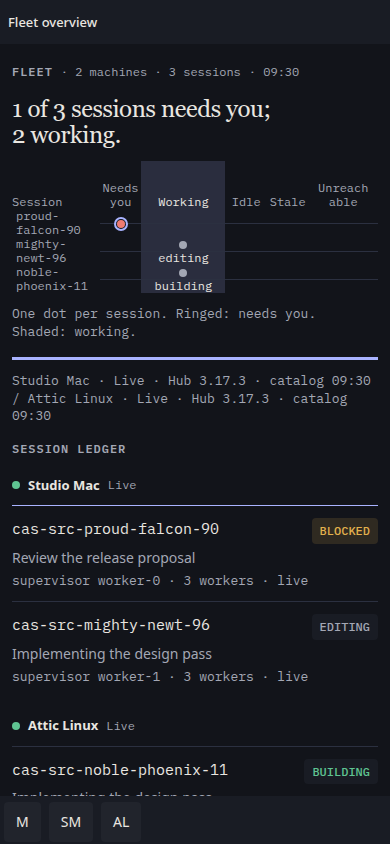
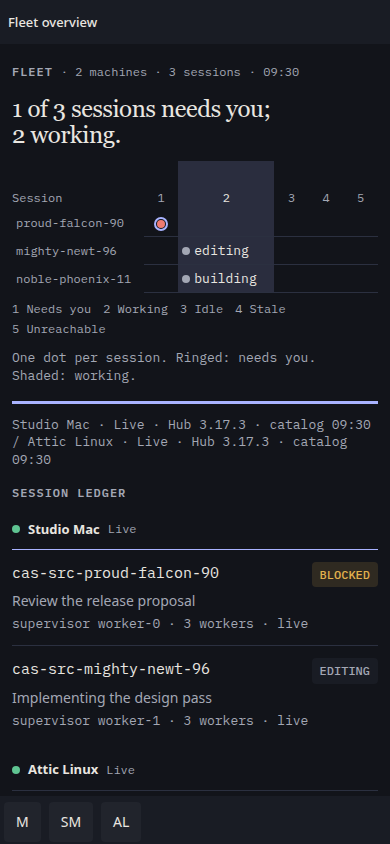
fix(hub-web): align fleet rows and keep phone labels intact (cas-0a8e)

diff --git a/hub-web/src/styles.css b/hub-web/src/styles.css
@@ -437,22 +437,36 @@ pre { font-family: var(--font-mono); }
 .fleet-catalog-time { color: var(--text-mid); font: var(--fs-xs)/1.33 var(--font-mono); }
 .fleet-board-summary { margin: 0; color: var(--text-mid); font: var(--fs-xs)/1.33 var(--font-mono); }
 .fleet-verdict { flex-basis: 100%; margin: var(--space-2) 0 0; max-width: 22ch; font: var(--weight-regular) var(--fs-verdict)/1.1 var(--font-display); letter-spacing: -.015em; text-wrap: pretty; }
-.fleet-figure { min-width: 0; margin: 0; }
+.fleet-figure { min-width: 0; margin: 0; container: fleet-figure / inline-size; }
 .fleet-plot-scroll { max-height: calc(8 * var(--button-compact-height) + var(--space-12)); overflow: auto; }
 .fleet-plot { width: 100%; border-collapse: collapse; table-layout: fixed; font: var(--fs-xs)/1.16 var(--font-mono); }
-.fleet-plot th { padding: var(--space-1); font-weight: var(--weight-regular); overflow-wrap: anywhere; text-align: center; }
-.fleet-plot thead th { padding: 0; height: var(--space-12); color: var(--text-mid); vertical-align: bottom; }
+.fleet-plot th { padding: var(--space-1); font-weight: var(--weight-regular); white-space: nowrap; text-align: center; }
+.fleet-plot thead th { padding: var(--space-1) 0; height: var(--space-12); color: var(--text-mid); vertical-align: bottom; }
 .fleet-plot th:first-child { width: 25%; text-align: left; }
-.fleet-plot th:nth-child(3) { width: 21%; }
+.fleet-plot th:nth-child(3) { width: calc(10ch + var(--space-6)); }
 .fleet-plot th:last-child { width: 19%; }
-.fleet-plot tbody th { padding: 0 var(--space-1); color: var(--text-mid); }
-.fleet-track-cell { height: var(--button-compact-height); padding: 0; position: relative; text-align: center; vertical-align: middle; }
-.fleet-track-cell::before { content: ""; position: absolute; left: 0; right: 0; top: 50%; height: var(--line-width); background: var(--line-subtle); }
+.fleet-plot tbody th, .fleet-track-cell { height: var(--button-compact-height); padding: 0; vertical-align: middle; }
+.fleet-plot tbody th { color: var(--text-mid); }
+.fleet-plot-name { display: block; padding: 0 var(--space-1); line-height: var(--button-compact-height); white-space: nowrap; overflow: hidden; text-overflow: ellipsis; }
+.fleet-track-cell { position: relative; text-align: center; }
+.fleet-track-cell::before { content: ""; position: absolute; left: 0; right: 0; bottom: 0; height: var(--line-width); background: var(--line-subtle); }
+.fleet-plot-mark { position: relative; display: inline-flex; align-items: center; gap: var(--space-1); vertical-align: middle; white-space: nowrap; }
+.track-working .fleet-plot-mark { display: flex; padding: 0 var(--space-1); }
 .fleet-plot th:nth-child(3), .track-working { background: var(--bg-active); color: var(--text-hi); }
 .fleet-dot { position: relative; display: inline-block; width: var(--space-2); height: var(--space-2); background: var(--text-mid); border-radius: var(--radius-pill); vertical-align: middle; }
 .needs-you .fleet-dot { background: var(--state-crit); outline: var(--rule-verdict) solid var(--color-verdict); outline-offset: var(--line-width); }
 .unreachable .fleet-dot { background: var(--state-warn); }
-.fleet-dot-phase { position: relative; display: block; color: var(--text-hi); font-size: var(--fs-xs); overflow-wrap: anywhere; }
+.fleet-dot-phase { color: var(--text-hi); font: var(--fs-meta)/1.38 var(--font-mono); white-space: nowrap; }
+.fleet-track-key, .fleet-track-legend { display: none; }
+/* Narrow figures use a numbered key so state words never split across rows. */
+@container fleet-figure (max-width: 34rem) {
+  .fleet-plot th:first-child { width: 36%; }
+  .fleet-plot th:last-child { width: auto; }
+  .fleet-plot thead th:not(:first-child) .fleet-track-label { display: none; }
+  .fleet-track-key { display: inline; }
+  .fleet-track-legend { display: flex; flex-wrap: wrap; gap: var(--space-1) var(--space-3); margin-top: var(--space-2); color: var(--text-mid); font: var(--fs-xs)/1.33 var(--font-mono); }
+  .fleet-track-legend > span { white-space: nowrap; }
+}
 .fleet-figure-caption { margin-top: var(--space-3); color: var(--text-mid); font: var(--fs-meta)/1.38 var(--font-mono); }
 .fleet-provenance { margin: 0; padding-top: var(--space-3); border-top: var(--rule-hero) solid var(--color-verdict); color: var(--text-mid); font: var(--fs-meta)/1.38 var(--font-mono); overflow-wrap: anywhere; }
 .fleet-provenance:empty { display: none; }
@@ -2192,8 +2206,6 @@ dialog form > *,
   .fleet-board { padding: var(--space-3) var(--space-1) var(--space-6); gap: var(--space-4); }
   .fleet-hero { grid-template-columns: minmax(0, 1fr); gap: var(--space-3); }
   .fleet-verdict { max-width: none; }
-  .fleet-plot th:first-child { width: 24%; }
-  .fleet-plot th:nth-child(3) { width: 23%; }
   /* == End Unit 3: phone fleet == */
 
   .talk-supervisor {

diff --git a/hub-web/src/fleet-board.test.ts b/hub-web/src/fleet-board.test.ts
@@ -2,6 +2,11 @@
 import { beforeEach, describe, expect, it, vi } from "vitest";
 import { FleetBoardRenderer, fleetBoardSignature, type FleetBoardModel } from "./fleet-board";
 import type { SessionPickerEntry } from "./session-selection";
+import { readFileSync } from "node:fs";
+import { fileURLToPath } from "node:url";
+import { dirname, join } from "node:path";
+
+const css = readFileSync(join(dirname(fileURLToPath(import.meta.url)), "styles.css"), "utf8");
 
 function entry(overrides: Partial<SessionPickerEntry> = {}): SessionPickerEntry {
   return {
@@ -130,6 +135,38 @@ describe("fleet board region lifecycle", () => {
 
 describe("fleet verdict and state track", () => {
   beforeEach(() => { document.body.innerHTML = ""; });
+
+  it.each([3, 8])("keeps %i session names and inline marks in the same fixed table rows", (count) => {
+    const board = freshBoard();
+    new FleetBoardRenderer().render(board, model({ sessions: Array.from({ length: count }, (_, i) =>
+      entry({ session: `cas-src-extraordinarily-long-falcon-${i}`, phase: "reviewing" })) }), { open: vi.fn() });
+    const rows = [...board.querySelectorAll<HTMLTableRowElement>(".fleet-plot-row")];
+    expect(rows).toHaveLength(count);
+    for (const [index, row] of rows.entries()) {
+      expect(row.cells).toHaveLength(6);
+      expect(row.cells[0].title).toBe(row.dataset.fleetSession);
+      expect(row.querySelector(".fleet-plot-name")?.textContent).toBe(`long-falcon-${index}`);
+      expect(row.querySelector(".fleet-plot-mark > .fleet-dot + .fleet-dot-phase")?.textContent).toBe("reviewing");
+    }
+    // jsdom has no layout engine: pin the shared geometry here; the browser
+    // receipt measures actual centers, all eight row heights and text bounds.
+    expect(css).toMatch(/\.fleet-plot tbody th, \.fleet-track-cell\s*\{[^}]*height: var\(--button-compact-height\);[^}]*padding: 0;[^}]*vertical-align: middle;/);
+    expect(css).toMatch(/\.fleet-plot-name\s*\{[^}]*line-height: var\(--button-compact-height\);[^}]*white-space: nowrap;[^}]*overflow: hidden;[^}]*text-overflow: ellipsis;/);
+    expect(css).toMatch(/\.fleet-plot-mark\s*\{[^}]*display: inline-flex;[^}]*align-items: center;/);
+    expect(css).toMatch(/\.fleet-track-cell::before\s*\{[^}]*bottom: 0;/);
+  });
+
+  it("keeps full state names accessible and supplies a nonbreaking narrow-figure legend", () => {
+    const board = freshBoard();
+    new FleetBoardRenderer().render(board, model(), { open: vi.fn() });
+    expect(board.querySelector("wbr")).toBeNull();
+    const labels = [...board.querySelectorAll("thead th")].slice(1).map(node => node.getAttribute("aria-label"));
+    expect(labels).toEqual(["Needs you", "Working", "Idle", "Stale", "Unreachable"]);
+    expect([...board.querySelectorAll(".fleet-track-key")].map(node => node.textContent)).toEqual(["1", "2", "3", "4", "5"]);
+    expect([...board.querySelectorAll(".fleet-track-legend > span")].map(node => node.textContent)).toEqual(labels.map((label, i) => `${i + 1} ${label}`));
+    expect(css).toMatch(/\.fleet-plot th\s*\{[^}]*white-space: nowrap;/);
+    expect(css).toMatch(/\.fleet-track-legend > span\s*\{[^}]*white-space: nowrap;/);
+  });
 
   it("puts the critical session first on Needs you with a matching verdict and ledger", () => {
     const board = freshBoard();

diff --git a/hub-web/src/fleet-board.ts b/hub-web/src/fleet-board.ts
@@ -180,11 +180,16 @@ function fleetFigure(model: FleetBoardModel): HTMLElement {
   const table = document.createElement("table");
   table.className = "fleet-plot";
   const head = table.createTHead().insertRow();
-  for (const label of ["Session", ...TRACK.map((state) => STATE_LABEL[state])]) {
+  for (const [index, label] of ["Session", ...TRACK.map((state) => STATE_LABEL[state])].entries()) {
     const cell = document.createElement("th");
     cell.scope = "col";
-    if (label === "Unreachable") cell.append("Unreach", document.createElement("wbr"), "able");
-    else cell.textContent = label;
+    cell.setAttribute("aria-label", label);
+    cell.append(textNode("span", "fleet-track-label", label));
+    if (index > 0) {
+      const key = textNode("span", "fleet-track-key", String(index));
+      key.setAttribute("aria-hidden", "true");
+      cell.append(key);
+    }
     head.append(cell);
   }
   const body = table.createTBody();
@@ -198,7 +203,7 @@ function fleetFigure(model: FleetBoardModel): HTMLElement {
     name.scope = "row";
     name.title = entry.session;
     name.setAttribute("aria-label", `${entry.session} on ${entry.machineLabel}`);
-    name.textContent = entry.session.split("-").slice(-3).join("-");
+    name.append(textNode("span", "fleet-plot-name", entry.session.split("-").slice(-3).join("-")));
     row.append(name);
     for (const position of TRACK) {
       const cell = row.insertCell();
@@ -207,8 +212,10 @@ function fleetFigure(model: FleetBoardModel): HTMLElement {
       cell.setAttribute("aria-label", `${STATE_LABEL[state]}${state === "working" ? `: ${entry.phase}` : ""}`);
       const dot = textNode("span", "fleet-dot", "");
       dot.setAttribute("aria-hidden", "true");
-      cell.append(dot);
-      if (state === "working") cell.append(textNode("span", "fleet-dot-phase", entry.phase ?? ""));
+      const mark = textNode("span", "fleet-plot-mark", "");
+      mark.append(dot);
+      if (state === "working") mark.append(textNode("span", "fleet-dot-phase", entry.phase ?? ""));
+      cell.append(mark);
       cell.append(textNode("span", "sr-only", STATE_LABEL[state]));
     }
   }
@@ -218,7 +225,10 @@ function fleetFigure(model: FleetBoardModel): HTMLElement {
   scroll.setAttribute("role", "region");
   scroll.setAttribute("aria-label", "Fleet state plot; scroll for more sessions");
   scroll.append(table);
-  figure.append(scroll, textNode("figcaption", "fleet-figure-caption", "One dot per session. Ringed: needs you. Shaded: working."));
+  const legend = textNode("div", "fleet-track-legend", "");
+  legend.setAttribute("aria-hidden", "true");
+  TRACK.forEach((state, index) => legend.append(textNode("span", "", `${index + 1} ${STATE_LABEL[state]}`)));
+  figure.append(scroll, legend, textNode("figcaption", "fleet-figure-caption", "One dot per session. Ringed: needs you. Shaded: working."));
   return figure;
 }
 

diff --git a/docs/design/hub-web/captures/after/unit-3.md b/docs/design/hub-web/captures/after/unit-3.md
@@ -3,6 +3,9 @@
 The fleet is a state-track dot plot beside a serif verdict, followed by a ruled session ledger.
 The critical session leads the figure and carries the verdict ring; working sessions form a column
 inside the shaded band. At 390px the verdict stacks above the plot; eight 28px session rows fit.
+Phase words sit inline beside fixed-position dots, with hairlines at row boundaries. Narrow
+figures use numbered columns and an unbroken full-word legend. Names stay on one line with
+ellipsis and a full-name title/accessible label; normal codenames fit in the wider phone column.
 
 | Surface | Light 1280 / 390 | Dark 1280 / 390 |
 | --- | --- | --- |
@@ -22,7 +25,7 @@ Strict command, repeated for each scheme and viewport:
 ```sh
 node scripts/visual-qa.mjs --strict --scheme light --viewport 390x844 \
   --allowlist /home/pippenz/.cas/artifacts/cas-0a8e/allowlist.json \
-  --artifact-dir /home/pippenz/.cas/artifacts/cas-0a8e/qa-light-390x844 \
+  --artifact-dir /home/pippenz/.cas/artifacts/cas-0a8e/correction-qa-light-390x844 \
   http://127.0.0.1:4186/commander/ \
   http://127.0.0.1:4186/commander/fleet-proof.html \
   'http://127.0.0.1:4186/commander/fleet-proof.html?count=8'
@@ -33,11 +36,11 @@ All four commands exited 0. The only exception is the approved `javascript-disab
 class: Commander needs JavaScript for pairing/live state/terminals, and its noscript line says so.
 There are no contrast, clipping, overlap, viewport or print exceptions.
 
-After rebasing onto Unit 6 at epic a39919fc, `npm run visual-qa` produced 36 captures.
-Fleet-populated and fleet-empty have zero findings; print-loss is zero on all nine fixtures.
-The complete matrix exits 1 for 16 findings in Unit 4's unmerged surfaces: pane-title contrast
-(4), attention-repeat contrast (2), invisible dismiss (4), attention detail overflow (2), clipping
-(2), and truncation (2). These are recorded, not allowlisted. Unit 7 owns the integrated receipt.
+After rebasing onto epic 8dc1b283 (including Units 2, 4 and 6), `npm run visual-qa --
+--artifact-dir /home/pippenz/.cas/artifacts/cas-0a8e/correction-fixture-final` exits 0:
+`PASS 9 fixtures x 2 schemes x 2 viewports`. The report contains 36 captures, zero findings,
+and eight existing plan allowances (four JavaScript dependency, two collapsed-pane overflow,
+two terminal clipping). No new allowlist entry was added. Unit 7 owns the assembled critique.
 
 ## Interaction and implementation evidence
 
@@ -46,6 +49,14 @@ storage persistence after reload, palette keyboard reopen and focus return, draw
 closed→open→closed with matching inert/aria-hidden, keyboard opening a ledger session,
 eight plot rows visible above the fold, no horizontal overflow, and print expansion.
 The drawer check exercises real DOM state; the unpaired shell hides its navigation.
+
+The corrective round adds `correction-geometry.mjs`: 3/8 sessions × light/dark ×1280/390,
+with every table cell and name measured at 28px; name and dot centers aligned; all working dots
+sharing one x coordinate; phase text inside the working band and clear of every hairline;
+full track words on one line; all eight rows, legend and caption visible without scrolling.
+The script refreshes all 12 PNGs above. `correction-geometry.json` retains the measured boxes.
+The empty-state PNGs were recaptured and remain byte-identical. Fresh `npm run typecheck` and
+`npm test` both exit 0 (31 files, 439 tests, including 14 fleet tests and 61 invariants).
 
 FleetBoardRenderer owns derived fleet state and its region key. main.ts supplies existing catalog
 and attention data; shellSignature/renderDecision and terminal rendering are unchanged.
@@ -62,11 +73,15 @@ Ghostty's existing WASM/font assets remain outside this unit. LCP/INP field data
 | Distinctiveness | 4 | Serif verdict, warm paper/graphite, ringed outlier and working band replace equal cards. |
 | Fit | 4 | One dot outside the working band identifies the session that needs the operator. |
 | Hierarchy | 4 | Verdict and plot lead, then a 3px rule, provenance and the quieter ledger; eight rows fit on phone. |
-| Craft | 4 | Four strict owned-screen PASS receipts; zero clipping/overlap/overflow. Long track labels wrap on phone. |
+| Craft | 4 | Four strict owned-screen PASS receipts and the integrated strict PASS; browser measurements prove 28px alignment, inline phase clearance and full-word phone legend. |
 | Accessibility | 4 | Semantic table/text states, full accessible session names, keyboard flow, both schemes and print pass; the JS dependency is stated. |
 
-Scored by proud-falcon-90 on 2026-09-07. Scope is Unit 3; Unit 7 owns the whole-app critique.
+Corrective round scored by cosmic-dragon-35 on 2026-09-07 after reviewing the refreshed
+light/dark desktop/phone captures. This supersedes the earlier craft score, which missed phase
+and hairline collisions. Scope is Unit 3; Unit 7 owns the whole-app critique.
 
 Durable JSON, logs, runnable proof sources and the four strict reports:
-`/home/pippenz/.cas/artifacts/cas-0a8e/` (`qa-*`, `browser-proof.*`, `fixture-qa-final/`,
-`fleet-proof.*`, `build-proof.mjs`). Preview servers are stopped at delivery.
+`/home/pippenz/.cas/artifacts/cas-0a8e/` (`correction-qa-*`, `correction-geometry.*`,
+`correction-interactions.log`, `correction-fixture-final/`, `correction-tests.log`,
+`correction-typecheck.log`, `correction-build.log`, `fleet-proof.*`, `build-proof.mjs`).
+Preview servers are stopped at delivery.
